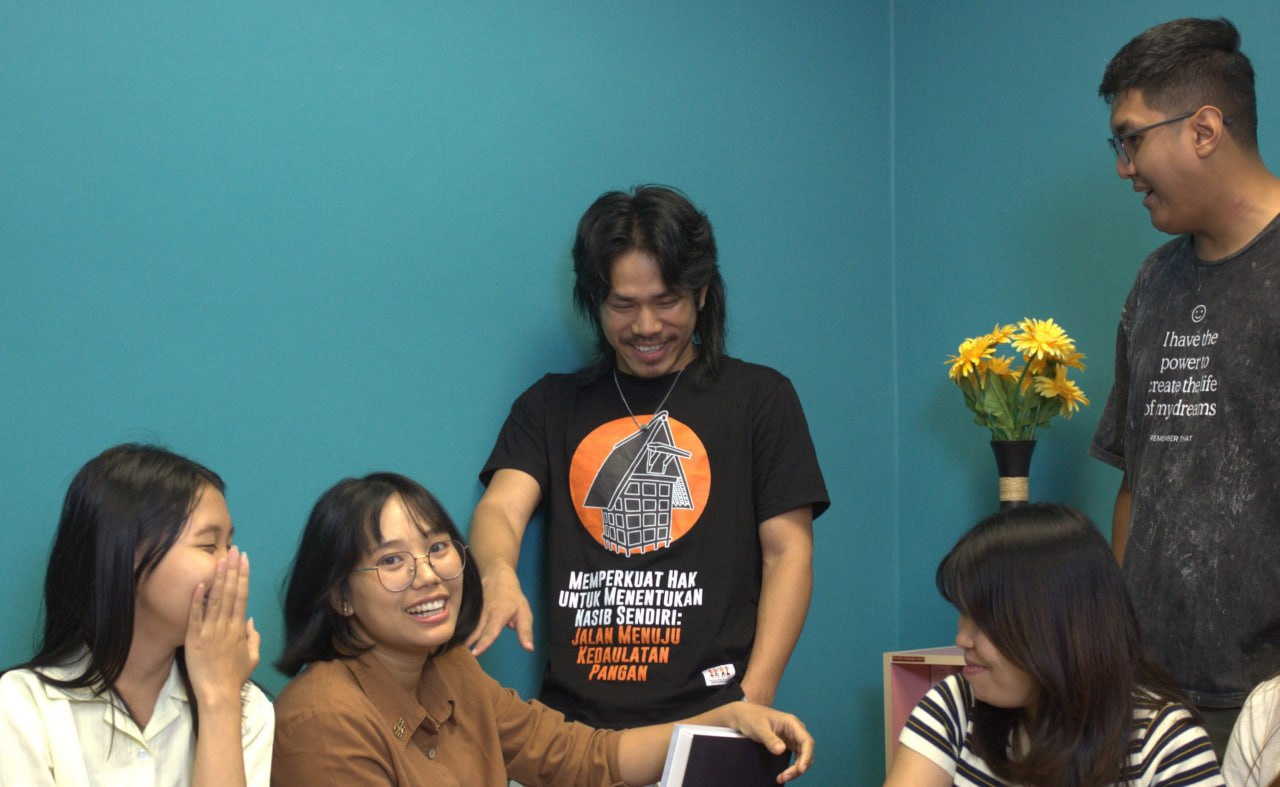
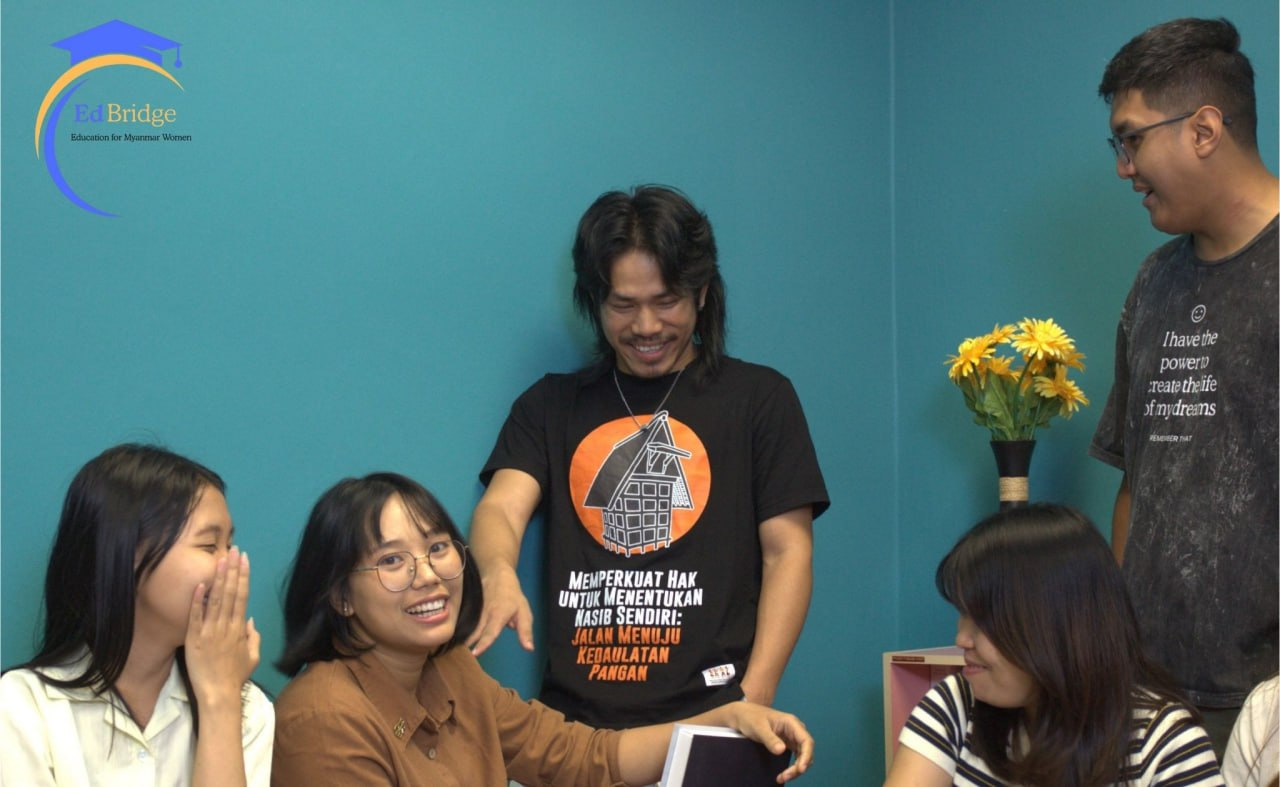
13.1.2026.1.30

Changed region(s): [[0.0, 0.0305, 0.1562, 0.2745]]

diff --git a/about.html b/about.html
@@ -204,23 +204,42 @@
             border-bottom: none;
         }
         
-        /* Page Hero */
-        .page-hero {
-    background: linear-gradient(rgba(253, 253, 253, 0.652), rgba(25, 19, 19, 0.6)), 
-                url('https://raw.githubusercontent.com/Thanlwin2062003/EdBridge/main/image/coverphoto.jpg');
-    background-size: cover;
+      /* Lighter gradient to show image text */
+.page-hero {
+    background: url('https://raw.githubusercontent.com/Thanlwin2062003/EdBridge/main/image/coverphoto.jpg');
+    background-size: contain; /* Changed from 'cover' to 'contain' */
     background-position: center;
-    background-repeat: no-repeat; /* Explicitly prevent tiling */
+    background-repeat: no-repeat;
+    background-color: #000; /* Add black background for empty space */
     color: white;
-    padding: 150px 0 100px;
     text-align: center;
+    height: 70vh;
+    min-height: 500px;
+    display: flex;
+    align-items: center;
+    justify-content: center;
+    position: relative;
 }
-        
-        .page-hero h1 {
-            font-size: 3rem;
-            margin-bottom: 1rem;
-            color: white;
-        }
+
+.page-hero::before {
+    content: '';
+    position: absolute;
+    top: 0;
+    left: 0;
+    width: 100%;
+    height: 100%;
+    
+    pointer-events: none;
+}
+
+.page-hero .container {
+    position: relative;
+    z-index: 2;
+    padding: 40px;
+    
+    border-radius: 10px;
+    max-width: 800px;
+}
         
         .btn {
             display: inline-block;
